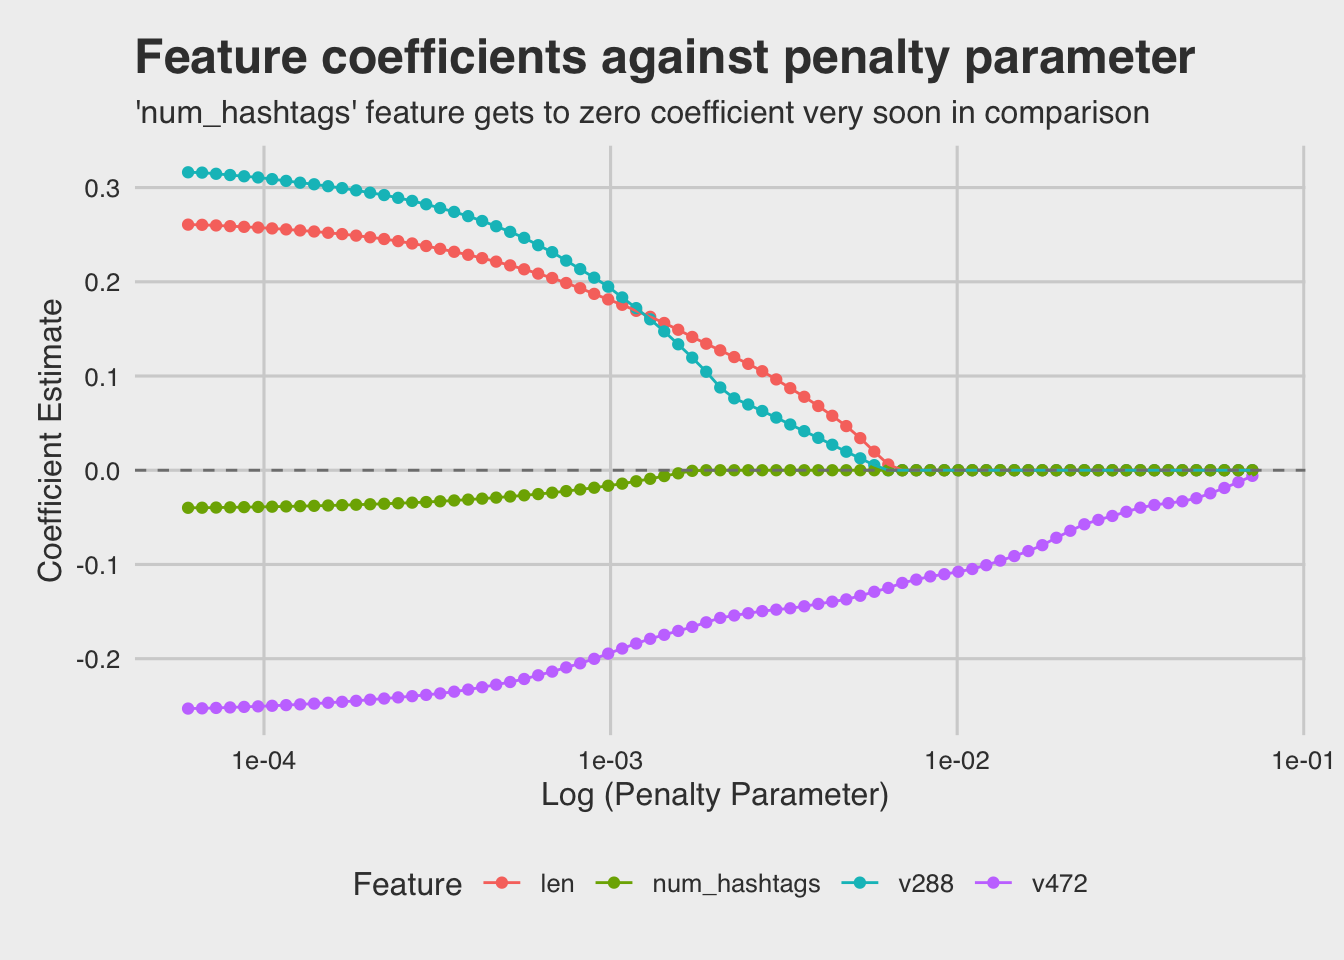
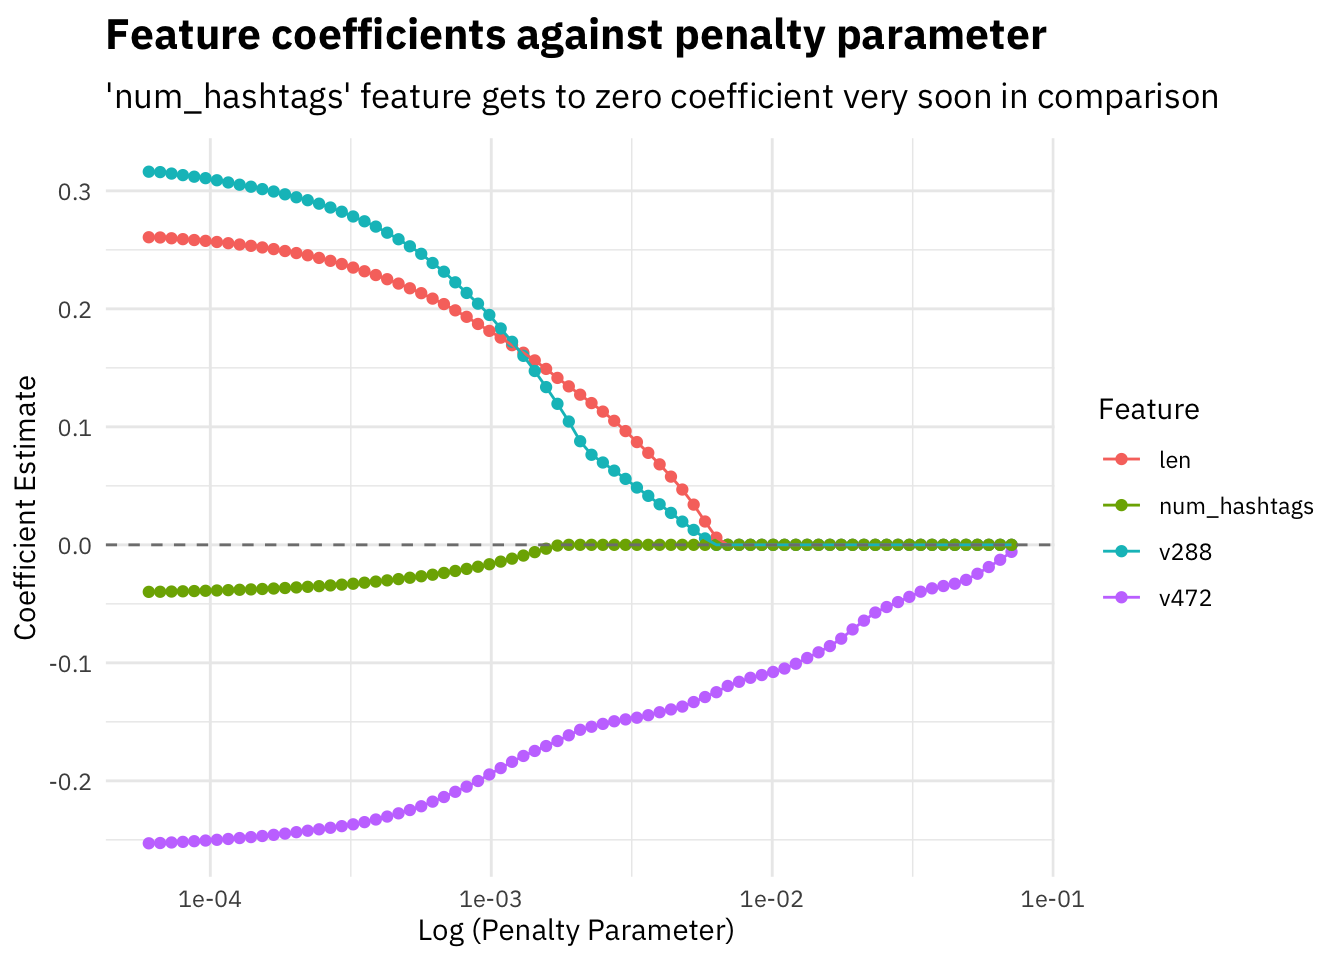
NLP Part 3

diff --git a/content/post/2020-04-06-nlp-with-disaster-tweets-part-3-linear-models.html b/content/post/2020-04-06-nlp-with-disaster-tweets-part-3-linear-models.html
@@ -57,8 +57,8 @@ library(glmnet)
 library(vip)
 library(ggthemes)
 
-theme_set(theme_fivethirtyeight() + 
-            theme(axis.title = element_text()) )</code></pre>
+source(&quot;../data/ggtheme_cb.R&quot;)
+theme_set(theme_cb())</code></pre>
 </div>
 <div id="loading-processed-data-from-previous-part" class="section level2">
 <h2>Loading processed data from previous part</h2>

diff --git a/content/post/2020-02-20-nlp-with-disaster-tweets-part-2-nearest-neighbor-models.html b/content/post/2020-02-20-nlp-with-disaster-tweets-part-2-nearest-neighbor-models.html
@@ -59,8 +59,6 @@ library(janitor)
 library(vip)
 library(ggthemes)
 
-# theme_set(theme_fivethirtyeight() + 
-#             theme(axis.title = element_text()) )
 source(&quot;../data/ggtheme_cb.R&quot;)
 theme_set(theme_cb())</code></pre>
 </div>
